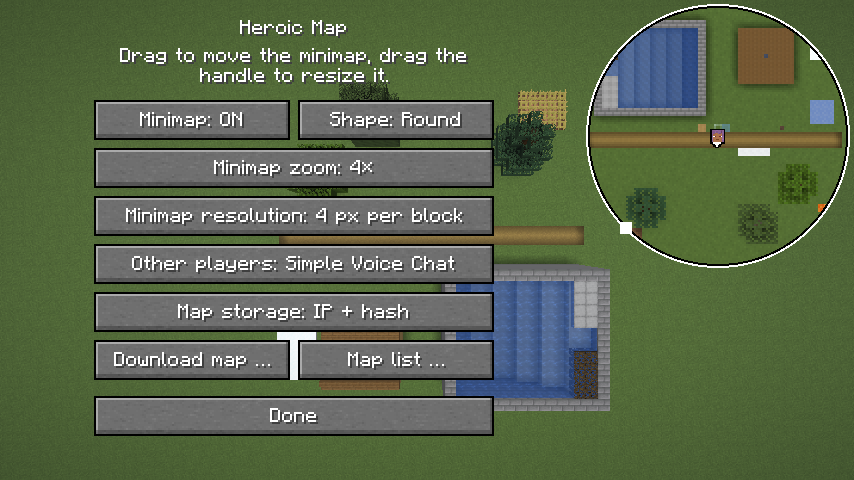
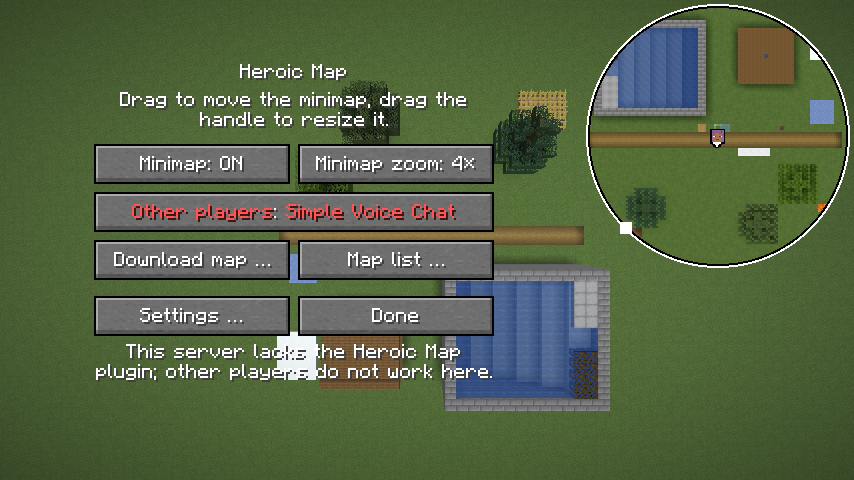
Bilder aus dem Gametest Bilder: Menü, Untermenü, Chunklinien, Selbst ohne Punkt

Changed region(s): [[0.0913, 0.0312, 0.6698, 0.9062], [0.9438, 0.3438, 0.9742, 0.375]]

diff --git a/docs/minimap.md b/docs/minimap.md
@@ -35,7 +35,7 @@ steht unter „Kosten“.
 
 `/hmap` öffnet das Menü (`Einstellungen`):
 
-![Das Menü über der Szene des Gametests, die Minimap rund](bilder/menue.png)
+![Das Menü über der Szene des Gametests, die Minimap rund; im Einzelspieler ohne Plugin steht „Mitspieler“ rot](bilder/menue.png)
 
 | Einstellung | Vorgabe | tut |
 |---|---|---|
